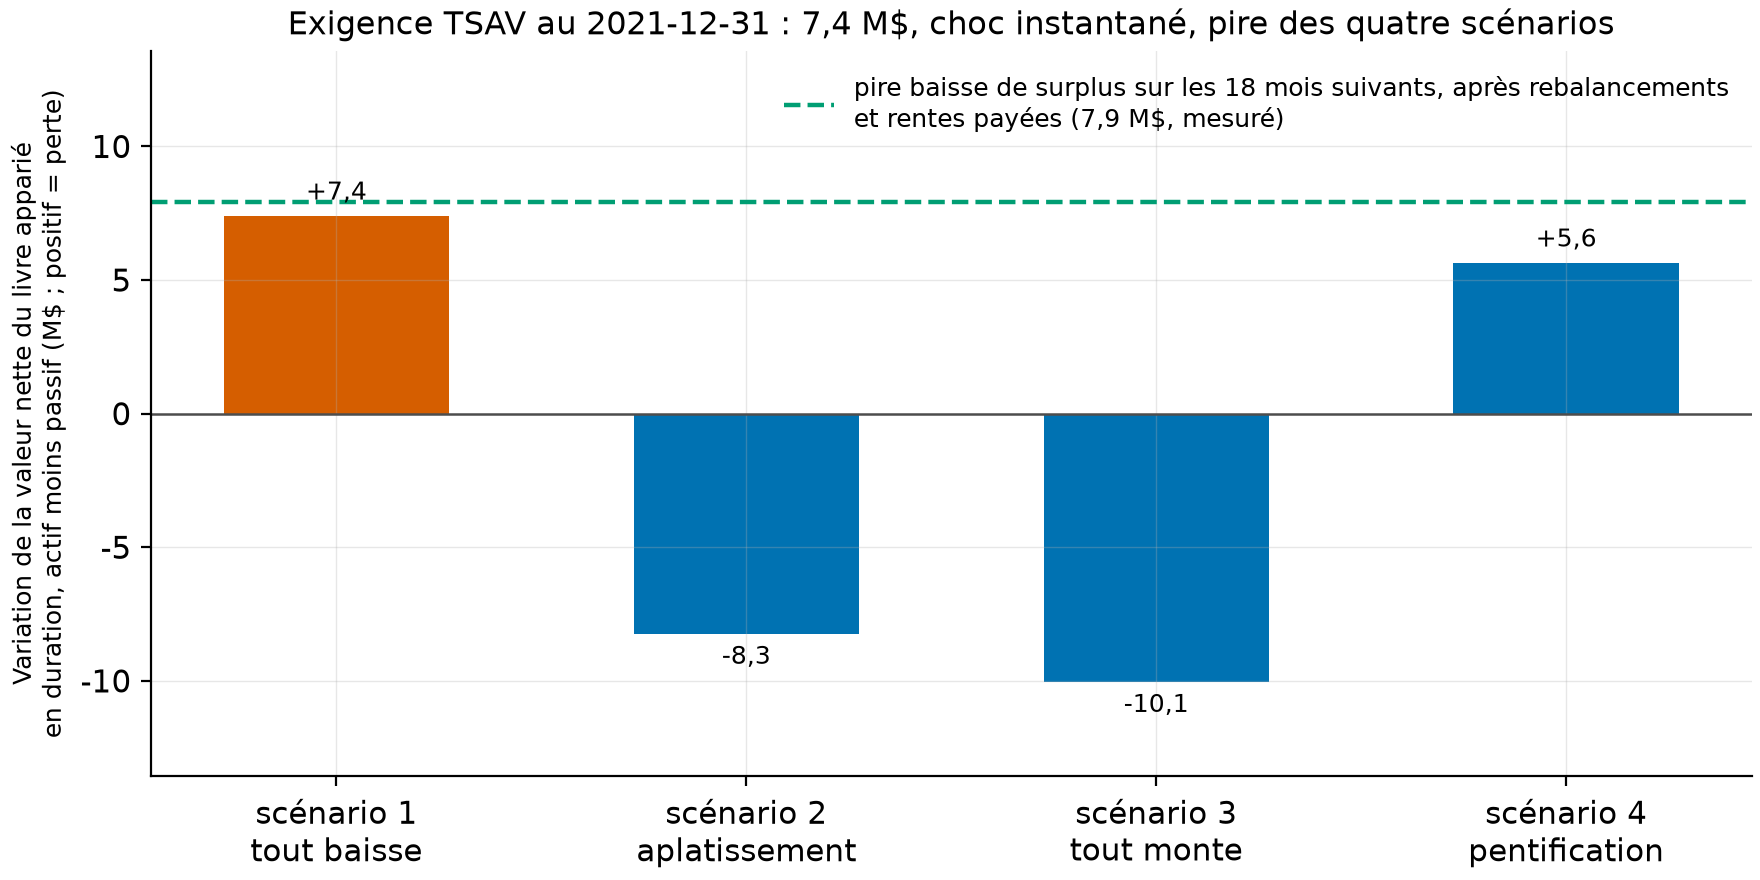
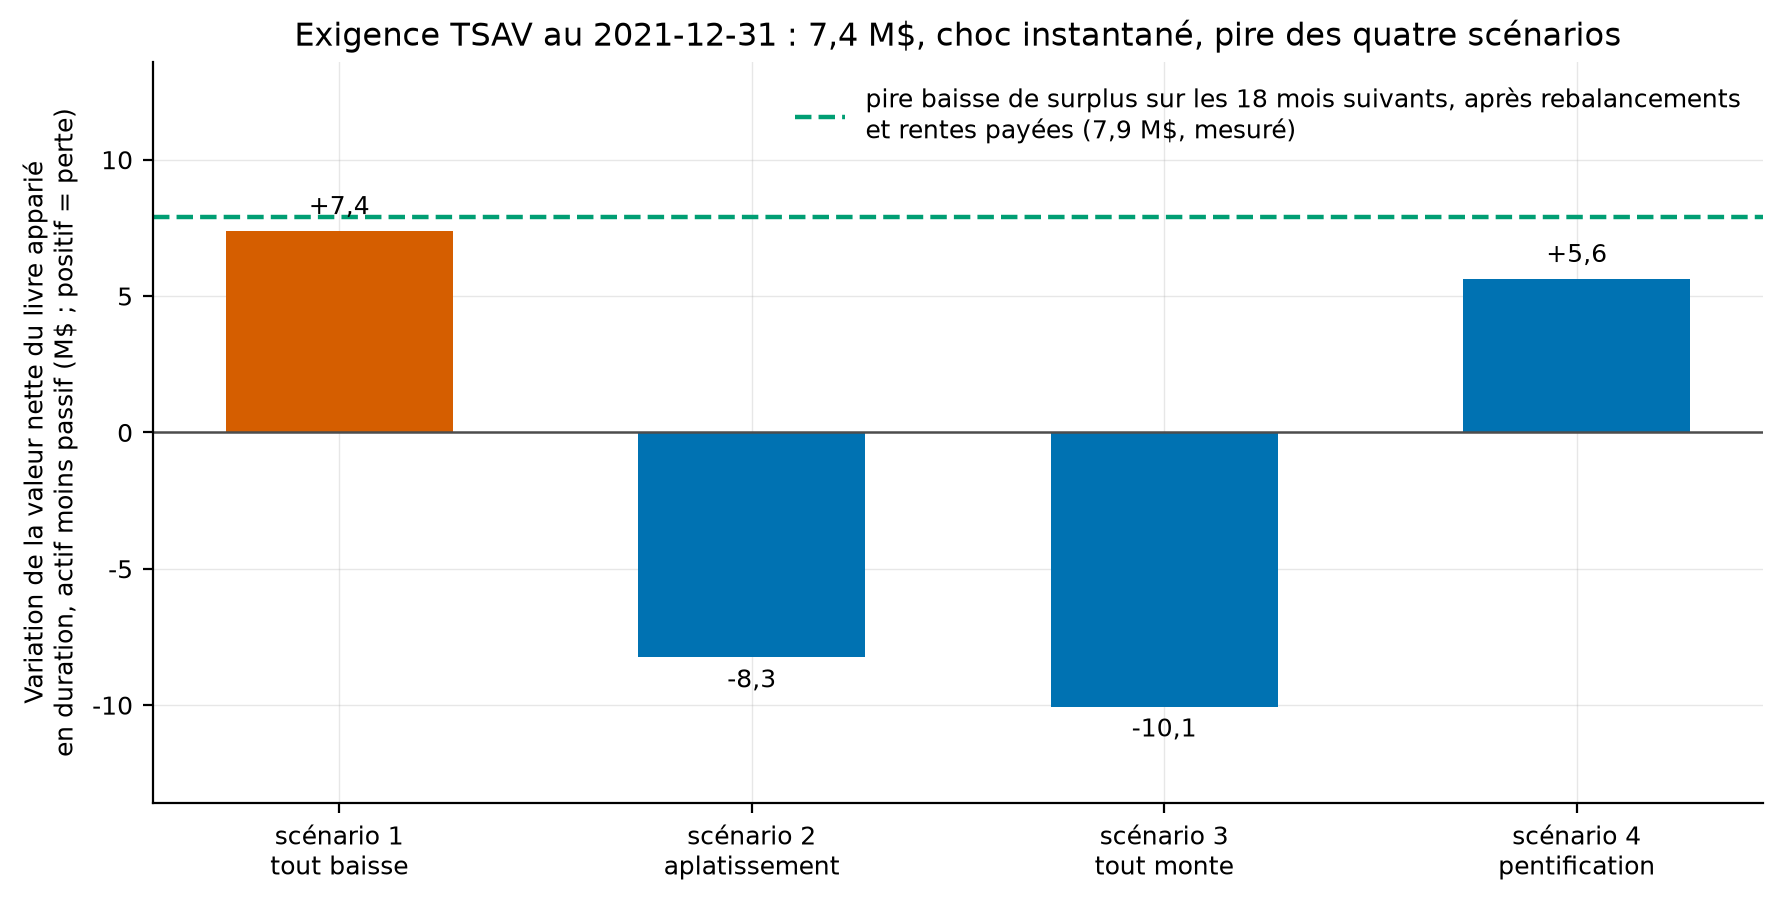
Consommer la feuille de style partagée au lieu de recopier la palette
La palette Okabe-Ito et les réglages de figure étaient recopiés à l'identique dans
chaque dépôt du portefeuille. Une correction de graisse de trait devait donc être faite
une fois par dépôt, et ne l'était jamais.

Le module de figures appelle désormais gv-fintools 0.2.1. Le nom public de la fonction
de réglage ne change pas, si bien qu'aucun appelant n'est touché. Les figures sont
régénérées avec le nouveau style, qui ajoute l'embarquement des polices dans les PDF :
le texte d'une figure reste sélectionnable et cherchable dans le rapport.

diff --git a/src/lic/figures.py b/src/lic/figures.py
@@ -7,23 +7,16 @@ from pathlib import Path
 import matplotlib.pyplot as plt
 import numpy as np
 import pandas as pd
+from gvf.style import OKABE_ITO, appliquer, formateur  # noqa: F401
 
-OKABE_ITO = ["#0072B2", "#E69F00", "#009E73", "#D55E00", "#CC79A7", "#56B4E9", "#F0E442", "#000000"]
+# La palette et les réglages viennent de la couche partagée du portefeuille : les mêmes
+# couleurs et la même virgule décimale dans tous les dépôts, corrigées à un seul endroit.
 
 
 def use_style():
-    import matplotlib as mpl
-    from cycler import cycler
-    from matplotlib.ticker import FuncFormatter
-
-    mpl.rcParams.update({
-        "figure.dpi": 200, "savefig.dpi": 200, "figure.constrained_layout.use": True,
-        "font.size": 11, "axes.titlesize": 12, "axes.prop_cycle": cycler(color=OKABE_ITO),
-        "axes.spines.top": False, "axes.spines.right": False,
-        "axes.grid": True, "grid.alpha": 0.3, "grid.linewidth": 0.5,
-        "legend.frameon": False, "lines.linewidth": 1.7,
-    })
-    return FuncFormatter(lambda v, _: f"{v:g}".replace(".", ","))
+    """Les réglages communs, puis le formateur d'axe en français."""
+    appliquer()
+    return formateur()
 
 
 def _mm(v: float) -> str:
